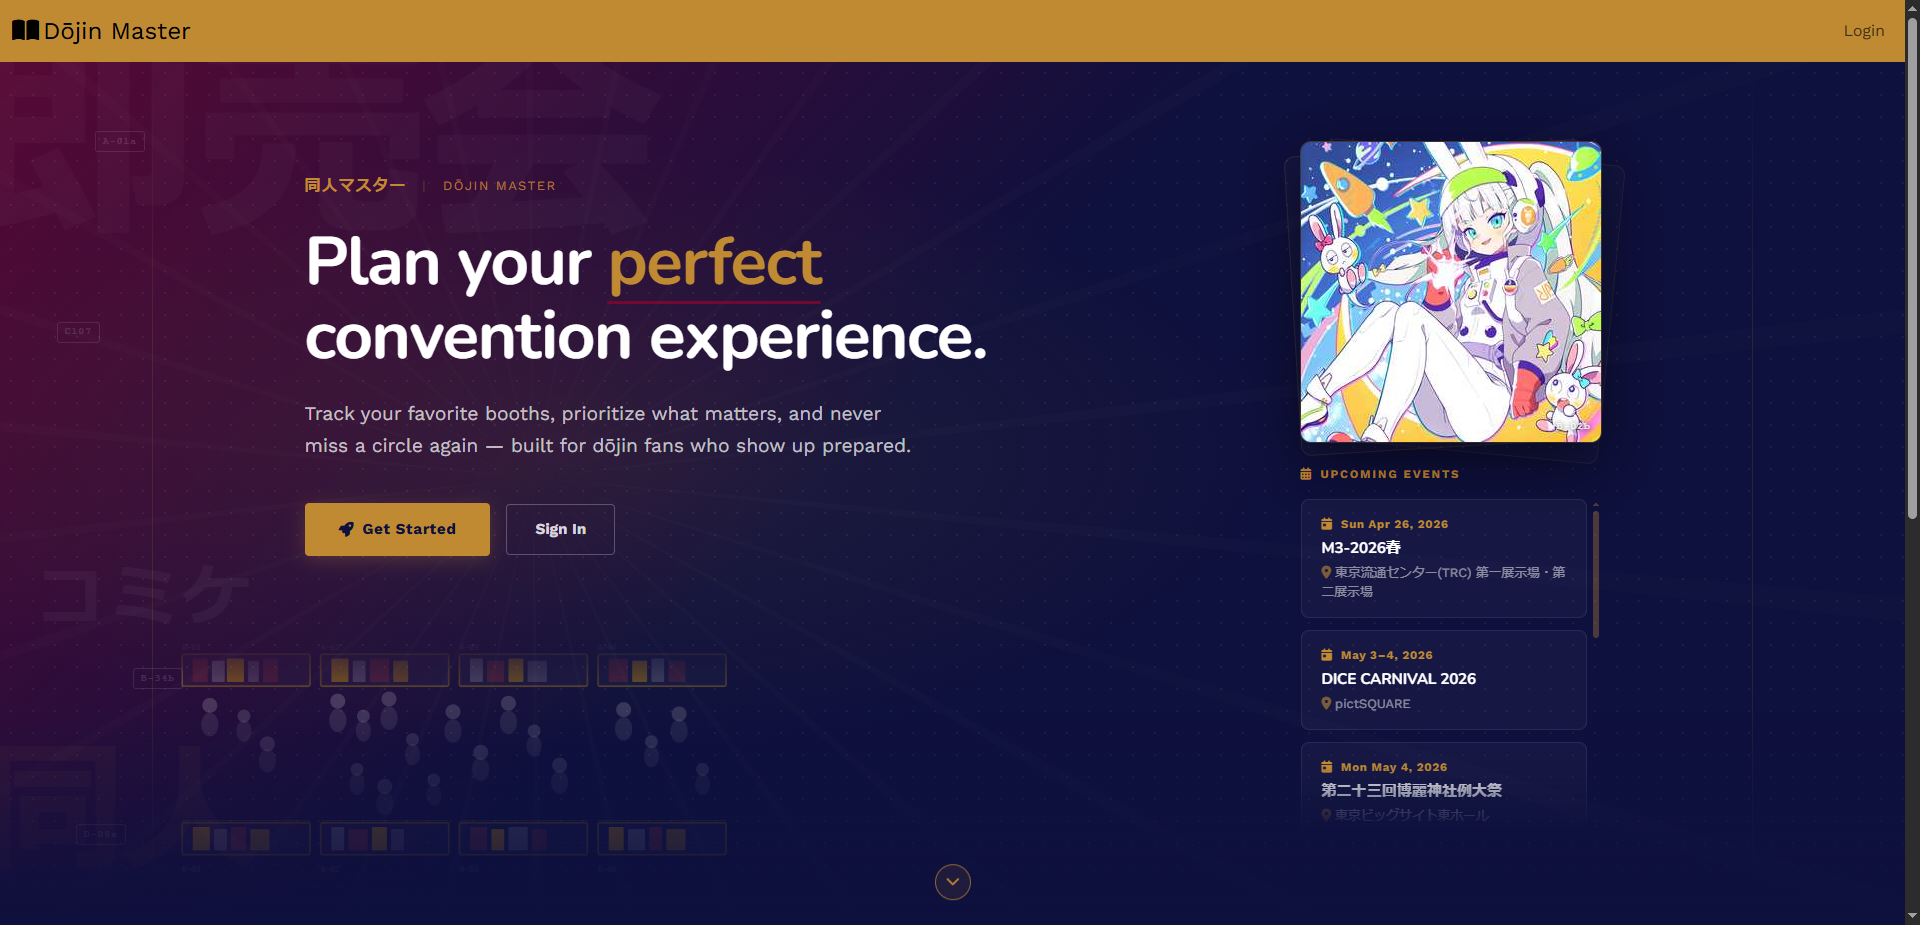
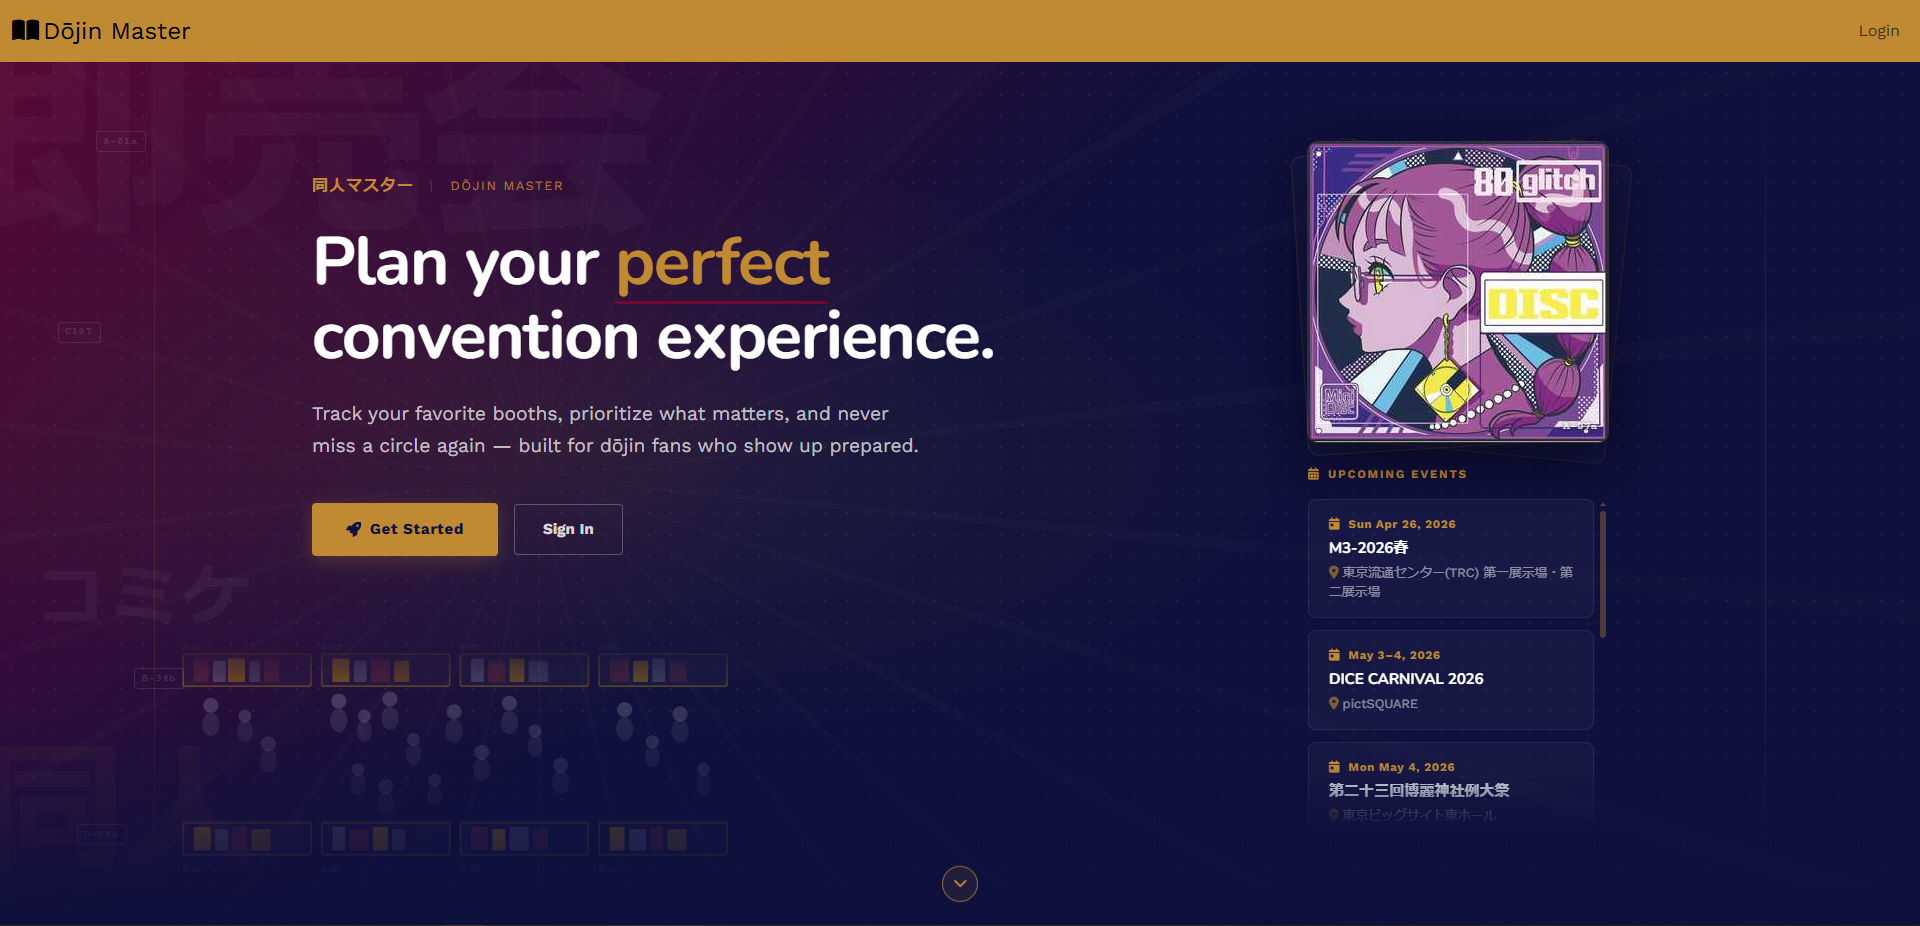
added JP; auto language detection; updated project images; added naitei

diff --git a/source/javascripts/site.js b/source/javascripts/site.js
@@ -1,1 +1,50 @@
-// This is where it all goes :)
+const translations = {
+  en: {
+    subtitle: "Full-Stack Developer | Node, React, TypeScript, Rails",
+    about: "Full-stack developer with experience building and shipping Rails apps, now focused on JS stack (Node.js, React, and TypeScript).",
+    projects_heading: "Projects",
+    toggle_label: "JP",
+  },
+  ja: {
+    subtitle: "フルスタックエンジニア | Node, React, TypeScript, Rails",
+    about: "Railsアプリのビルドとリリース経験を持つフルスタックエンジニア。現在はNode.js、React、TypeScriptを使ったJSスタックに注力しています。",
+    projects_heading: "プロジェクト",
+    toggle_label: "EN",
+  },
+};
+
+function applyLanguage(lang) {
+  const t = translations[lang];
+
+  document.querySelectorAll("[data-i18n]").forEach((el) => {
+    const key = el.getAttribute("data-i18n");
+    if (t[key] !== undefined) el.textContent = t[key];
+  });
+
+  document.querySelectorAll("[data-en][data-ja]").forEach((el) => {
+    el.textContent = el.getAttribute("data-" + lang);
+  });
+
+  const toggle = document.getElementById("lang-toggle");
+  if (toggle) toggle.textContent = t.toggle_label;
+
+  document.documentElement.lang = lang;
+  localStorage.setItem("lang", lang);
+}
+
+function detectLanguage() {
+  const stored = localStorage.getItem("lang");
+  if (stored === "en" || stored === "ja") return stored;
+  const browser = (navigator.language || "en").toLowerCase();
+  return browser.startsWith("ja") ? "ja" : "en";
+}
+
+document.addEventListener("DOMContentLoaded", () => {
+  const lang = detectLanguage();
+  applyLanguage(lang);
+
+  document.getElementById("lang-toggle").addEventListener("click", () => {
+    const current = localStorage.getItem("lang") || "en";
+    applyLanguage(current === "en" ? "ja" : "en");
+  });
+});

diff --git a/source/stylesheets/components/_button.scss b/source/stylesheets/components/_button.scss
@@ -1,3 +1,20 @@
+#lang-toggle {
+  background: transparent;
+  border: 1.5px solid currentColor;
+  border-radius: 4px;
+  padding: 4px 10px;
+  font-size: 13px;
+  font-weight: 600;
+  letter-spacing: 0.05em;
+  cursor: pointer;
+  color: black;
+  transition: opacity 0.2s;
+
+  &:hover {
+    opacity: 0.6;
+  }
+}
+
 .button-social {
   padding: 0 16px 0 0;
   position: relative;
